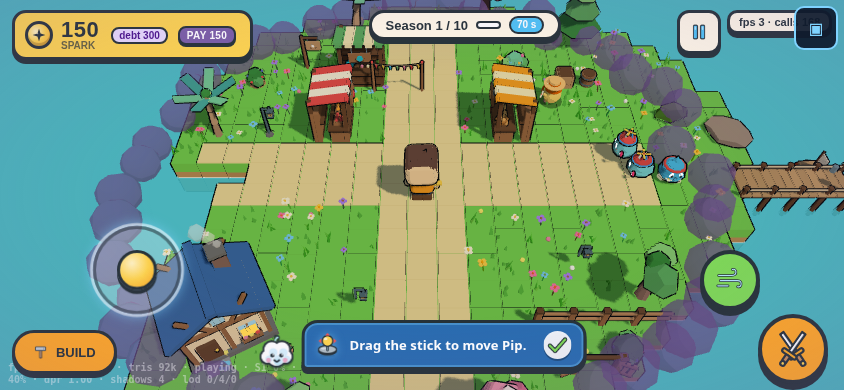
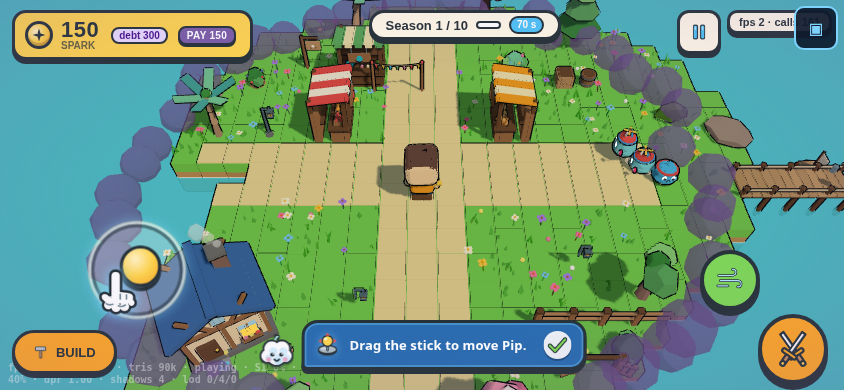
S65-B: tutor card clears the open Build tray at 568x320, 480x270, 360x240 (0 px overlap, rig play_s65b)

diff --git a/LUMEN/game/ui/tutor.css b/LUMEN/game/ui/tutor.css
@@ -48,6 +48,8 @@
 /* S65-B (S64-F): short phones, Build tray open: the card's top edge overlapped the tray panel's bottom border (8 px at 568x320). The Build button sits to the card's
    left, so the card only has to drop to the bottom edge, below the panel. */
 @media (max-height: 460px) { body.ll-tray-open:not(.ll-placing) .ll-tutor { bottom: max(4px, env(safe-area-inset-bottom)); } }
+/* S65-B: <= 300 px tall (480x270, 360x240): the card sits RIGHT of the Build button (never over it) and leaves the Attack / Dash pad free. */
+@media (max-height: 300px) { body.ll-tray-open:not(.ll-placing) .ll-tutor, body.ll-tray-open:not(.ll-placing) .ll-tutor.show { left: 124px; transform: none; max-width: calc(100vw - 124px - 92px); } }
 @media (min-width: 701px) and (min-height: 461px) {
   .ll-tutor { left: 16px; transform: translateX(0) translateY(10px); bottom: calc(max(12px, env(safe-area-inset-bottom)) + 64px); }
   .ll-tutor.show { transform: translateX(0) translateY(0); }
@@ -105,3 +107,8 @@ body.tj-on .ll-joy-hint { opacity: 0 !important; }   /* S60-A: the drawn stick d
 /* S62-C: while an item is being placed the build bar (✓ place · R · ✕ cancel) owns the bottom-left; the card + Cloud lift above it (phone landscape) */
 @media (max-height: 460px) { body.ll-placing .ll-tutor { bottom: calc(max(8px, env(safe-area-inset-bottom)) + 62px); } }
 @media (max-height: 300px) { body.ll-placing .ll-tutor { bottom: calc(max(6px, env(safe-area-inset-bottom)) + 52px); } }
+
+/* S65-B: <= 260 px tall: the cloud avatar steps out (the hand + text carry it) and the card is one tight line pair. */
+@media (max-height: 260px) { .ll-tutor { font-size: 12px; } .ll-tutor-av { display: none; } .ll-tutor-bub { padding: 5px 8px; } body.ll-tray-open:not(.ll-placing) .ll-tutor, body.ll-tray-open:not(.ll-placing) .ll-tutor.show { left: 124px; max-width: calc(100vw - 124px - 88px); } }
+/* S65-B: <= 260 px tall: no icon / check inside the card (the hand and the text carry it) -> 2 text lines instead of 4, so it clears the open tray panel. */
+@media (max-height: 260px) { .ll-tutor-ico, .ll-tutor-x { display: none; } .ll-tutor-bub { gap: 0; padding: 4px 8px; border-radius: 12px; } }

diff --git a/LUMEN/game/ui/build.css b/LUMEN/game/ui/build.css
@@ -122,3 +122,9 @@ body.is-touch .ll-build-hint { font-size: 12px; color: #333; font-weight: 800; }
 
 /* S63-D2: an owned card already says "yours" in its cost chip; the green count badge sat on top of it and cut the word ("yours" -> "yours✓"). Hide the badge when the count is 1 (one-per-type cards). */
 .ll-card.owned .ll-card-count { display: none; }
+
+/* S65-B: very short phones (360x240): the tray was taller than the screen (top = -65 px). The card grid scrolls inside a shorter box instead. */
+@media (max-height: 300px) { .ll-build-grid { max-height: 88px; } .ll-build-tray { padding: 6px; } .ll-build-tabs { margin-bottom: 4px; } }
+
+/* S65-B: <= 260 px tall (360x240): tabs scroll sideways instead of wrapping to a 2nd line, the hint line is dropped (the cards say it), card grid is shorter. */
+@media (max-height: 260px) { .ll-build-tabs { flex-wrap: nowrap; overflow-x: auto; scrollbar-width: none; } .ll-build-tabs::-webkit-scrollbar { display: none; } .ll-build-tab { flex: none; } .ll-build-hint { display: none; } .ll-build-grid { max-height: 62px; } .ll-card-name { min-height: 0; } }
